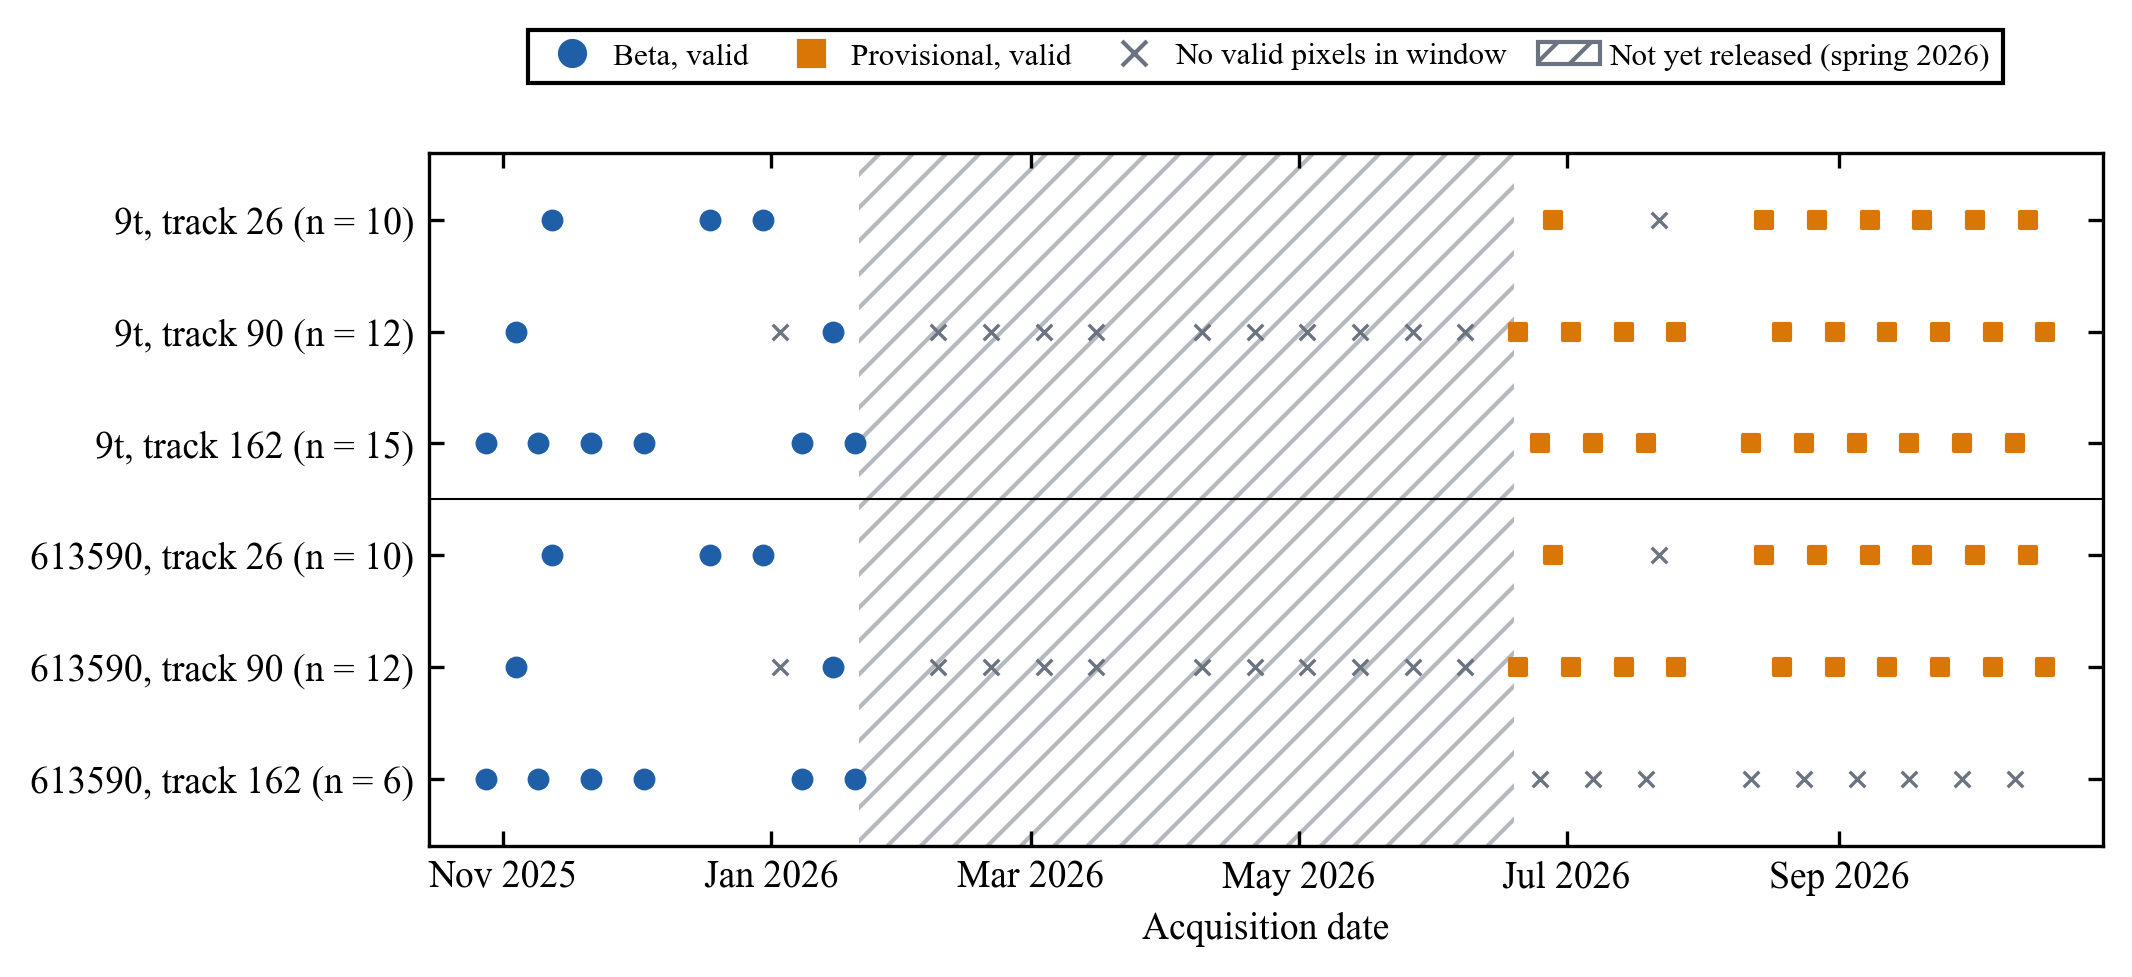
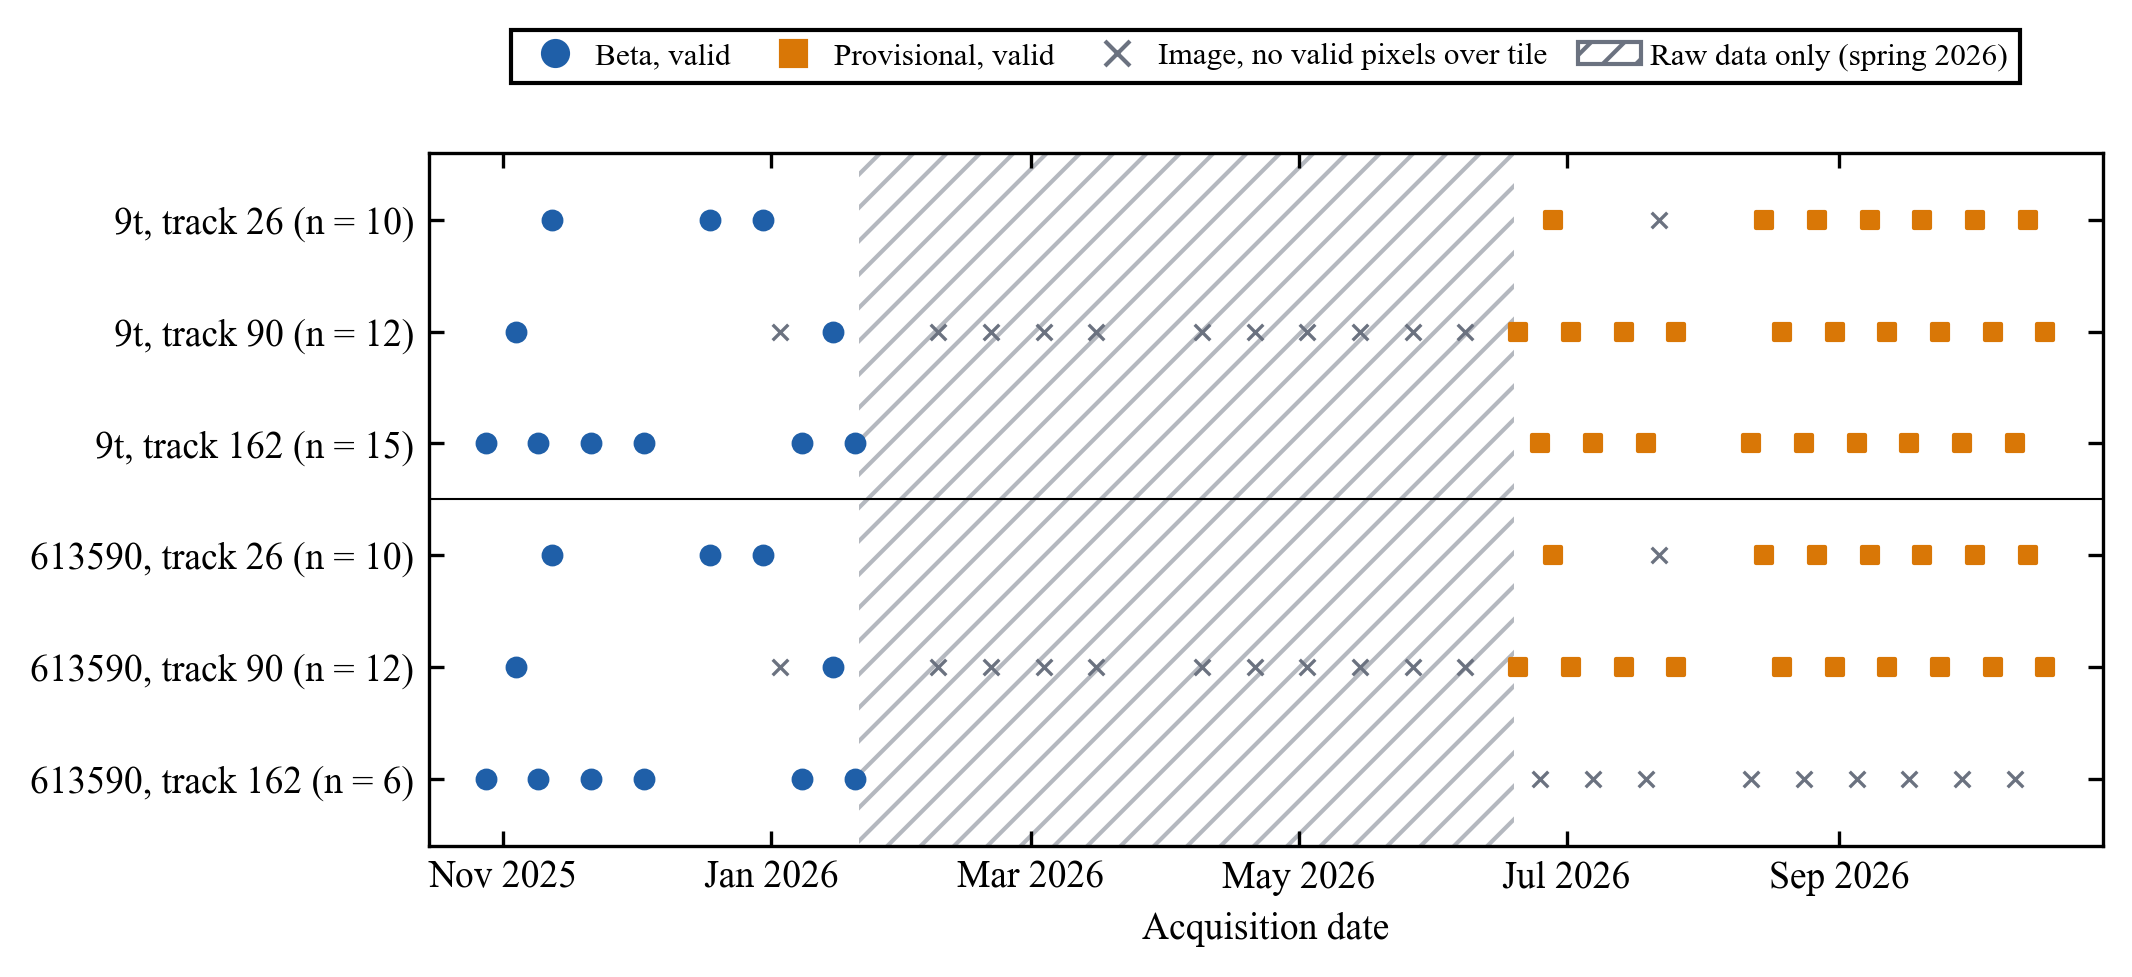
nisar: spring 2026 is raw-only, not unreleased (figure legend and doc)

Changed region(s): [[0.2167, 0.0307, 0.9597, 0.0921]]

diff --git a/nisar/code/s7_analysis/_nisar_process_figures.py b/nisar/code/s7_analysis/_nisar_process_figures.py
@@ -71,8 +71,8 @@ def fig_dates():
     ax.set_xlabel("Acquisition date")
     ax.legend(handles=[Line2D([], [], marker="o", ls="", c=BLUE, label="Beta, valid"),
                        Line2D([], [], marker="s", ls="", c=ORANGE, label="Provisional, valid"),
-                       Line2D([], [], marker="x", ls="", c=GREY, label="No valid pixels in window"),
-                       Patch(facecolor="none", edgecolor=GREY, hatch="///", label="Not yet released (spring 2026)")],
+                       Line2D([], [], marker="x", ls="", c=GREY, label="Image, no valid pixels over tile"),
+                       Patch(facecolor="none", edgecolor=GREY, hatch="///", label="Raw data only (spring 2026)")],
               loc="upper center", bbox_to_anchor=(0.5, 1.2), ncol=4, fontsize=7.5, handletextpad=0.3, columnspacing=1)
     save(fig, "nisar_dates_on_hand.png")
 

diff --git a/nisar/docs/NISAR_PROCESS_AND_OUTCOMES.md b/nisar/docs/NISAR_PROCESS_AND_OUTCOMES.md
@@ -67,7 +67,7 @@ Prediction, candidate ranking and discovery are outside the present scope.
 
 ## 3a. The spring 2026 gap (checked 2026-11-15)
 
-The satellite did record over 9t and 613590 in spring 2026. NASA has not yet released processed images of those passes.
+The satellite did record over 9t and 613590 in spring 2026. The raw data is released. Processed images of our frames are not, so we cannot use it yet.
 - **Raw data exists.** NASA's archive lists raw Level 0 files (RRSD) for spring passes on tracks 90 and 162, for example 2026-04-09, 2026-04-21, 2026-05-27 and 2026-06-08. Each raw pass is about 60 GB and covers our areas.
 - **Raw data cannot be clipped.** It is echo data, not an image. Each image pixel is built from echoes spread over kilometres of flight path. Using it means downloading the whole file and focusing it ourselves with ISCE3, NASA's open-source processor.
 - **Processed spring images exist only for the neighbouring frame.** The April 9 GSLC on track 90 is frame 23. Its south edge sits about 12 km north of 9t. Track 162's spring files are frame 24. Our clipped windows from those files held no valid pixels over 9t or 613590.
